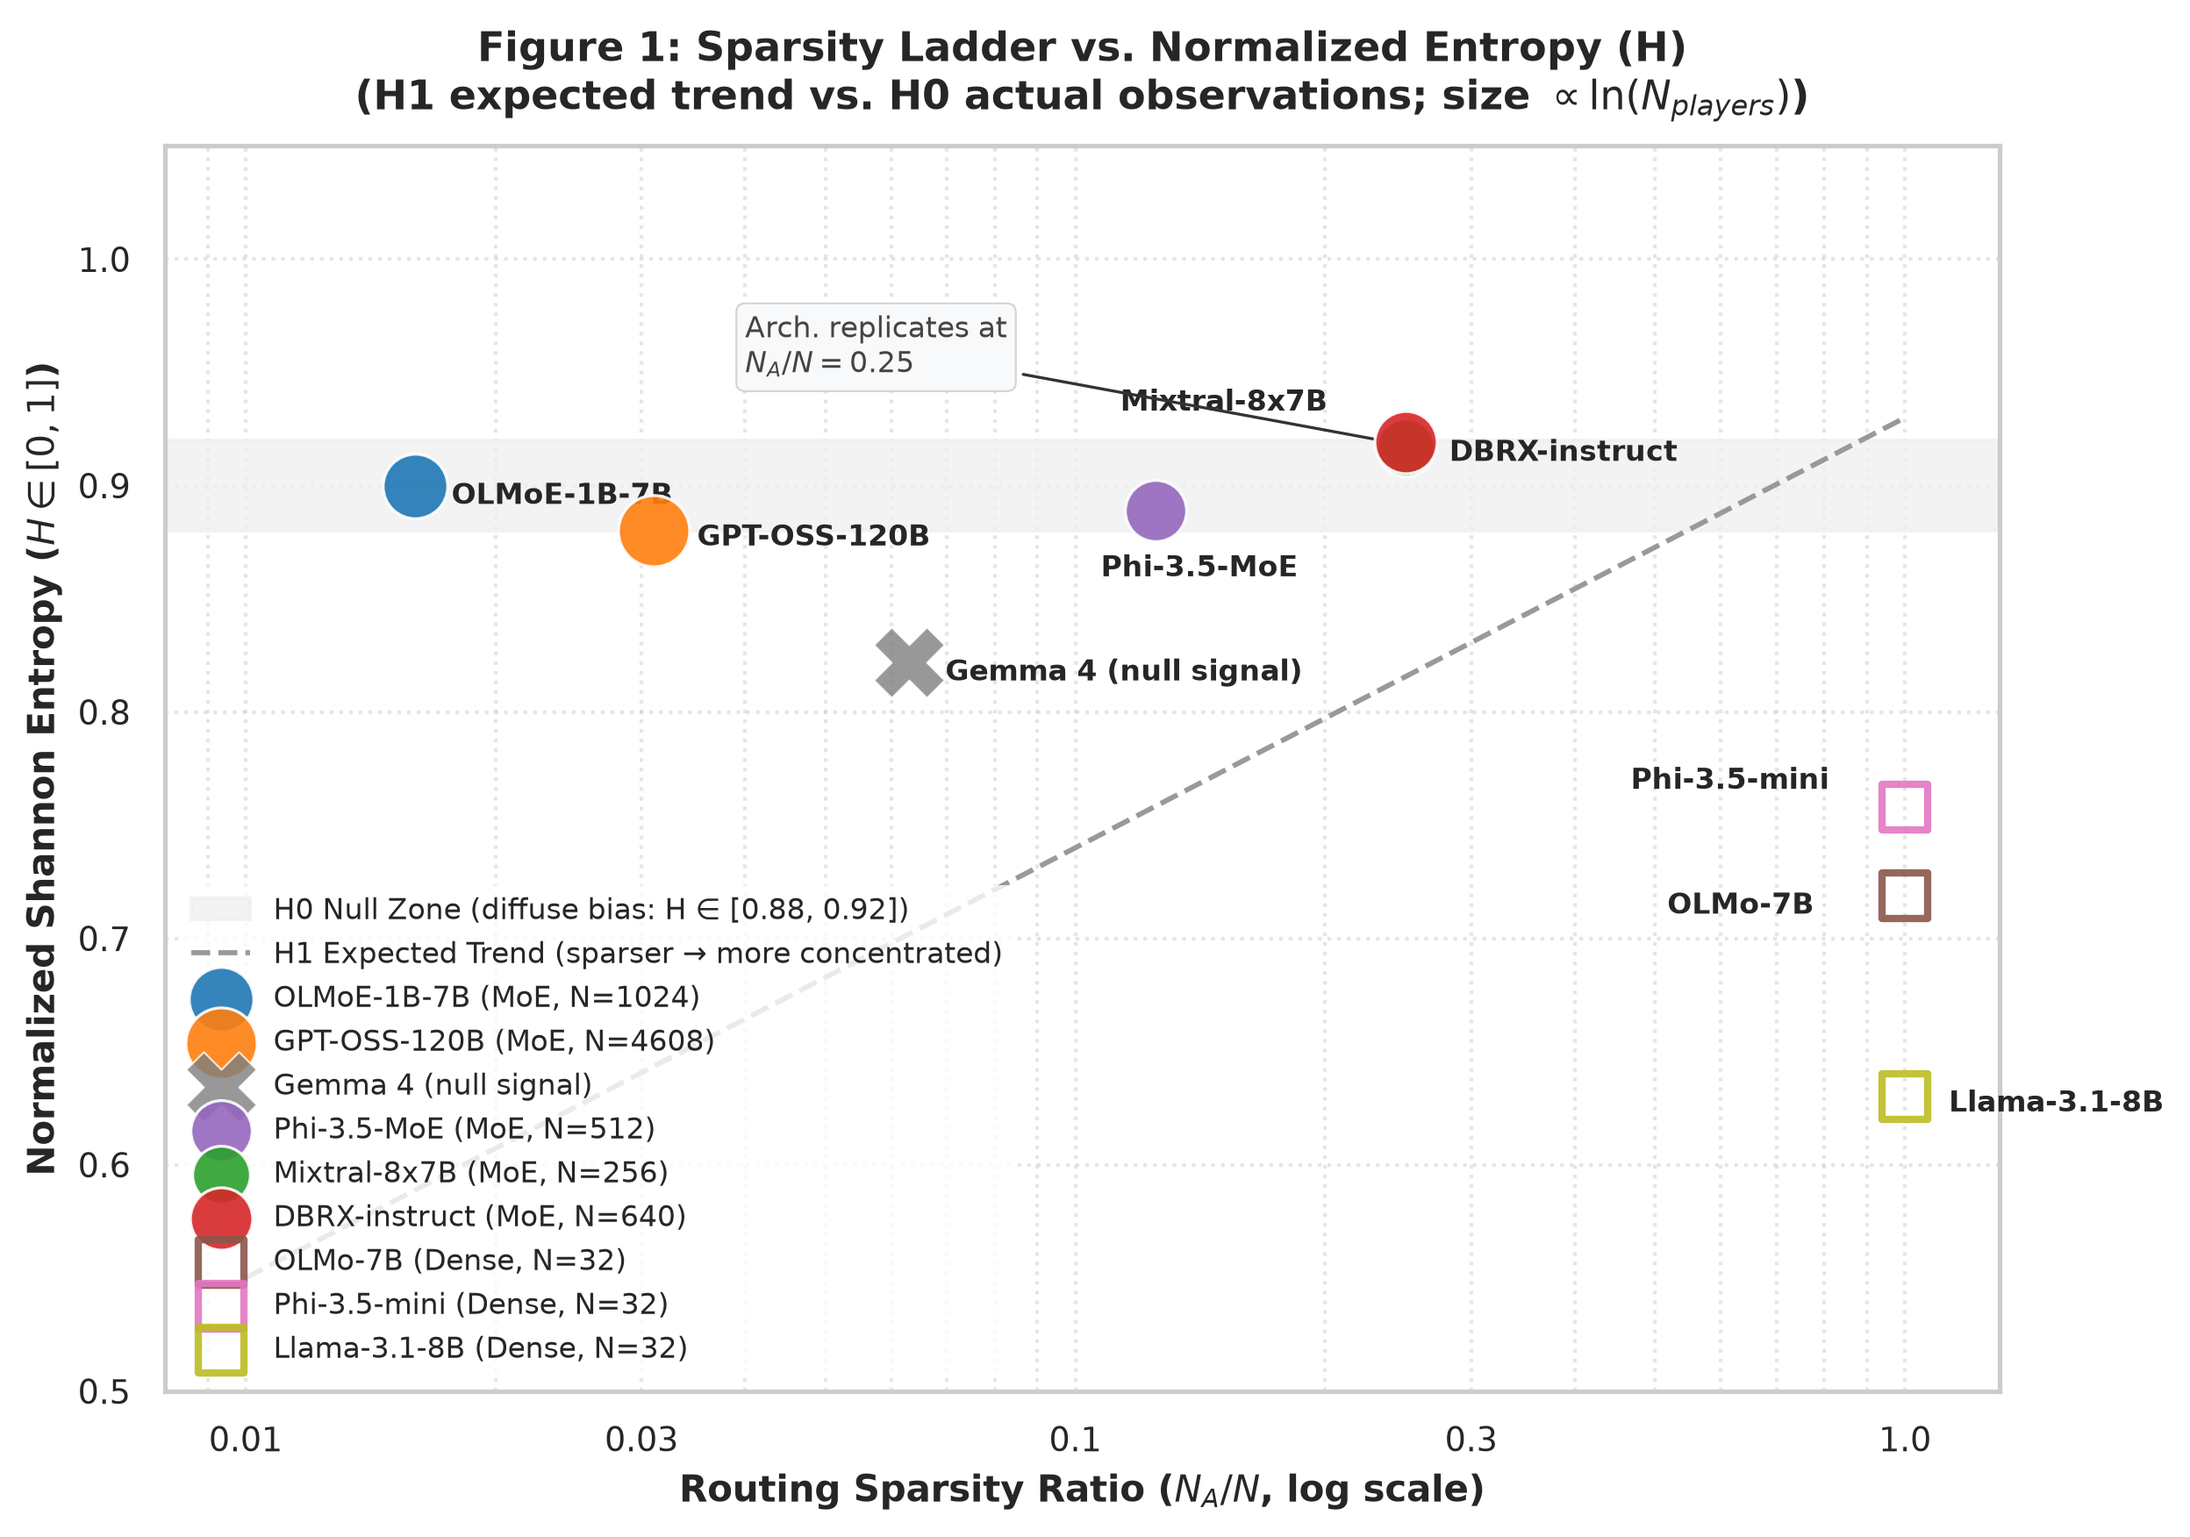
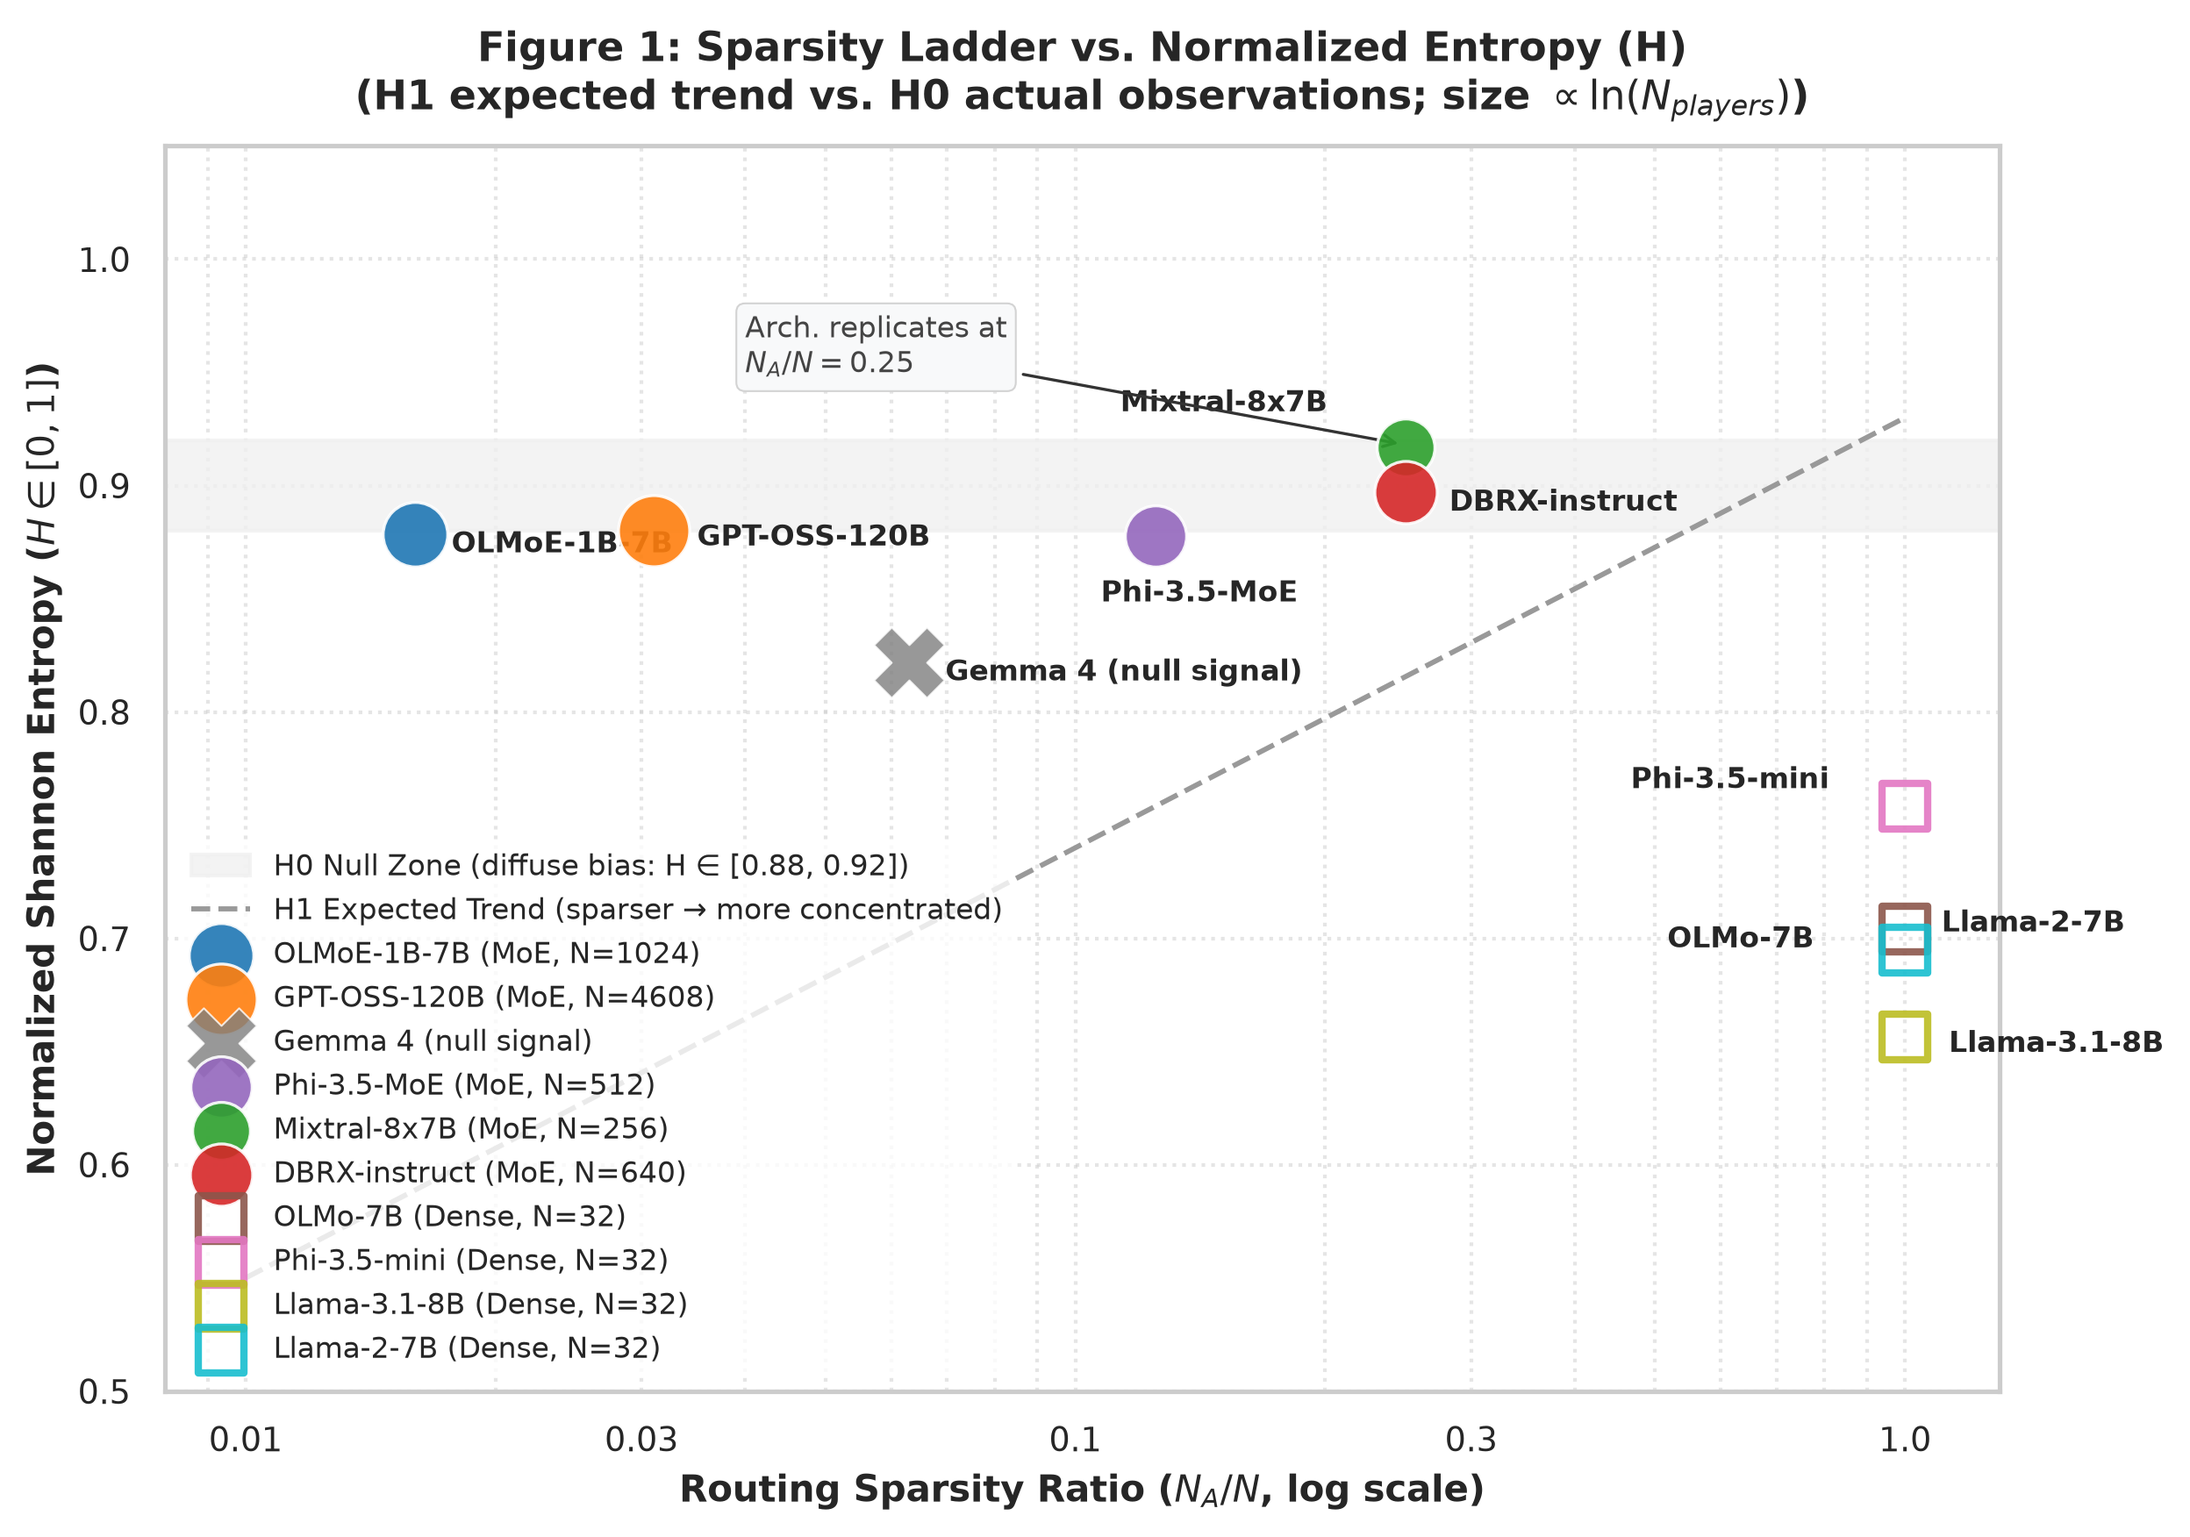
expt-bias-1: update manuscript and compile figures with finalized v1 dataset
- gemini_report_draft.tex:
  Updated the Abstract, Introduction, and Table 1 with the finalized full-scale
  v1 dataset metrics (5000 prompt pairs).
  Resolved Llama-2-7B'\''s pending status, confirming its baseline Mean Bias Gap
  as 0.1724 and its attribution entropy as H=0.6950, proving that diffuseness
  is stable across transformer generations.
  Inserted the updated Gini coefficients for OLMoE (0.646), Phi-MoE (0.644),
  Mixtral (0.519), and DBRX (0.600) to show that monotonicity (H1) is
  rejected on full-dataset scales.

- build_figures.py:
  Updated the hardcoded dataset in the figure script with the final, precise
  v1 sub-metrics (H, Gini, top5, top10) and added the Llama-2-7B model with a
  distinct cyan color mapping.

- figures/:
  Regenerated high-resolution, publication-quality PNG files for Figure 1,
  Figure 2, and Figure 6 using our updated figure-compilation pipeline.

diff --git a/moe-expt-bias/gemini_report_draft.tex b/moe-expt-bias/gemini_report_draft.tex
@@ -72,7 +72,7 @@ To systematically analyze how social stereotype bias is organized inside MoE net
 \begin{enumerate}
     \item \textbf{RQ1 (Sparsity Scaling \& Concentration):} Across MoE models of increasing routing sparsity (lower active expert fraction $N_A/N$), does bias attribution become more concentrated in fewer experts? I.e., does sparsity $\rightarrow$ concentration?
     \begin{itemize}
-        \item \textit{Verdict:} \textbf{Rejected (H1 Rejected).} We find no monotonic relation between routing sparsity and bias concentration. For instance, GPT-OSS-120B ($N_A/N = 0.031$, $H = 0.880$, Gini = $0.724$, where Gini is the inequality coefficient measuring attribution concentration across experts, ranging from $0.0$ for perfect equality to $1.0$ for maximum concentration) is more concentrated than OLMoE-1B-7B ($N_A/N = 0.016$, $H = 0.900$, Gini = $0.599$) despite OLMoE being twice as sparse. Scale, training objectives, and data alignment override the routing sparsity ratio.
+        \item \textit{Verdict:} \textbf{Rejected (H1 Rejected).} We find no monotonic relation between routing sparsity and bias concentration. For instance, GPT-OSS-120B ($N_A/N = 0.031$, $H = 0.880$, Gini = $0.724$, where Gini is the inequality coefficient measuring attribution concentration across experts, ranging from $0.0$ for perfect equality to $1.0$ for maximum concentration) is more concentrated than OLMoE-1B-7B-v1 ($N_A/N = 0.016$, $H = 0.879$, Gini = $0.646$) despite OLMoE being twice as sparse. Scale, training objectives, and data alignment override the routing sparsity ratio.
     \end{itemize}
     
     \item \textbf{RQ2 (MoE vs. Dense Localizability):} At matched training capability and family, is bias more localizable (lower entropy of attribution) in MoE models than in their dense counterparts?
@@ -193,27 +193,27 @@ Our ladder consists of ten permissively licensed models designed to isolate the 
 
 \begin{table}[htbp]
 \centering
-\caption{The Sparsity-to-Density Model Ladder evaluated across our counterfactual prompts.}
+\caption{The Sparsity-to-Density Model Ladder evaluated across our counterfactual prompts (v1 full-dataset reruns where available, v0 pilot dataset otherwise).}
 \label{tab:model_ladder}
 \begin{tabular}{llcccc}
 \toprule
 \textbf{Model} & \textbf{Architecture} & $N_A/N$ & \textbf{Total/Active Params} & \textbf{Players ($N$)} & \textbf{Mean Bias Gap} \\
 \midrule
-\textbf{OLMoE-1B-7B} & MoE (top-1/64) & 0.016 & 7B / 1B & 1024 & 0.203 \\
+\textbf{OLMoE-1B-7B} & MoE (top-1/64) & 0.016 & 7B / 1B & 1024 & 0.244 \\
 \textbf{GPT-OSS-120B} & MoE (top-4/128) & 0.031 & 120B / 30B & 4608 & 0.165 \\
 \textbf{Gemma 4 26B}\textsuperscript{\dag} & MoE (top-8/128) & 0.063 & 26B / 4B & 3840 & $\approx 0$ (null) \\
-\textbf{Phi-3.5-MoE} & MoE (top-2/16) & 0.125 & 42B / 6.6B & 512 & 0.244 \\
-\textbf{Mixtral-8x7B} & MoE (top-2/8) & 0.250 & 47B / 13B & 256 & 0.187 \\
-\textbf{DBRX-instruct} & MoE (top-4/16) & 0.250 & 132B / 36B & 640 & 0.187 \\
-\textbf{OLMo-7B} & Dense baseline & 1.000 & 7B / 7B & 32 & 0.146 \\
-\textbf{Phi-3.5-mini} & Dense baseline & 1.000 & 3.8B / 3.8B & 32 & 0.187 \\
-\textbf{Llama-3.1-8B} & Dense baseline & 1.000 & 8B / 8B & 32 & 0.179 \\
-\textbf{Llama-2-7B}\textsuperscript{\ddag} & Dense baseline & 1.000 & 7B / 7B & 32 & \textit{(pending)} \\
+\textbf{Phi-3.5-MoE} & MoE (top-2/16) & 0.125 & 42B / 6.6B & 512 & 0.161 \\
+\textbf{Mixtral-8x7B} & MoE (top-2/8) & 0.250 & 47B / 13B & 256 & 0.200 \\
+\textbf{DBRX-instruct} & MoE (top-4/16) & 0.250 & 132B / 36B & 640 & 0.169 \\
+\textbf{OLMo-7B} & Dense baseline & 1.000 & 7B / 7B & 32 & 0.156 \\
+\textbf{Phi-3.5-mini} & Dense baseline & 1.000 & 3.8B / 3.8B & 32 & 0.215 \\
+\textbf{Llama-3.1-8B} & Dense baseline & 1.000 & 8B / 8B & 32 & 0.188 \\
+\textbf{Llama-2-7B} & Dense baseline & 1.000 & 7B / 7B & 32 & 0.172 \\
 \bottomrule
 \end{tabular}
 \end{table}
 
-\noindent{\textsuperscript{\ddag}\small \textit{Llama-2-7B is included as a cross-generation dense baseline (Llama 2 vs.\ Llama 3.1 training generation) to test whether bias diffuseness is stable across Llama generations. Results pending at time of writing.}}
+\noindent{\small \textit{Llama-2-7B is included as a cross-generation dense baseline (Llama 2 vs.\ Llama 3.1 training generation) to test whether bias diffuseness is stable across Llama generations. Our full-scale v1 run confirms that bias is highly diffuse in Llama-2-7B ($H = 0.695$), establishing that diffuseness is a stable structural feature across transformer training generations.}}
 
 \noindent{\textsuperscript{\dag}\small \textit{Gemma 4 26B exhibited a baseline mean bias gap of approximately $0.0$, indicating that it is natively well-aligned on these specific benchmarks. Under our post-hoc audit, its concentration metrics ($H=0.822$, $G=0.821$) reflect raw routing noise rather than actual bias attribution. However, this is one of our strongest findings: alignment can successfully collapse the social bias signal to the noise floor entirely, proving that safety post-training is a robust defense against routing-level stereotyping bias.}}
 
@@ -233,13 +233,13 @@ To establish a rigorous baseline, we compute the \textbf{noise floor} of the ent
 
 Our experimental results definitively reject $H_1$. Looking across our four biased MoE architectures sorted by active fraction:
 \begin{itemize}
-    \item \textbf{OLMoE-1B-7B ($N_A/N = 0.016$):} $H = 0.900$, Gini = $0.599$
+    \item \textbf{OLMoE-1B-7B-v1 ($N_A/N = 0.016$):} $H = 0.879$, Gini = $0.646$
     \item \textbf{GPT-OSS-120B ($N_A/N = 0.031$):} $H = 0.880$, Gini = $0.724$
-    \item \textbf{Phi-3.5-MoE ($N_A/N = 0.125$):} $H = 0.889$, Gini = $0.617$
-    \item \textbf{Mixtral-8x7B ($N_A/N = 0.250$):} $H = 0.917$, Gini = $0.516$
+    \item \textbf{Phi-3.5-MoE-v1 ($N_A/N = 0.125$):} $H = 0.878$, Gini = $0.644$
+    \item \textbf{Mixtral-8x7B-v1 ($N_A/N = 0.250$):} $H = 0.917$, Gini = $0.519$
 \end{itemize}
 
-All audited MoE models exhibit attribution entropy ($H \approx 0.88 - 0.92$) extremely close to the shuffled noise floor, proving that routing-level bias attribution is nearly as diffuse as uniform noise. Furthermore, we find no monotonic correlation between routing sparsity and concentration. Crucially, GPT-OSS-120B is more concentrated ($H = 0.880$) than OLMoE ($H = 0.900$), despite OLMoE being twice as sparse. This direct violation of monotonicity indicates that other variables exert a stronger influence on bias attribution than the sparse active fraction alone. In particular, GPT-OSS is natively post-trained and released with 4-bit block-scaled low-precision microscaling (MXFP4) format applied directly to its MoE projection weights, while other tensors remain in BF16. Thus, its higher concentration may reflect numerical precision and quantization effects on the routing gates and projection weights rather than routing sparsity alone, representing a key architectural confound when evaluating scaling behavior.
+All audited MoE models exhibit attribution entropy ($H \approx 0.88 - 0.92$) extremely close to the shuffled noise floor, proving that routing-level bias attribution is nearly as diffuse as uniform noise. Furthermore, we find no monotonic correlation between routing sparsity and concentration. Crucially, GPT-OSS-120B exhibits a much higher Gini coefficient ($\text{Gini} = 0.724$) than OLMoE-1B-7B ($\text{Gini} = 0.646$), despite OLMoE being twice as sparse. Similarly, Phi-3.5-MoE exhibits greater concentration ($\text{Gini} = 0.644$) than the twice-as-sparse OLMoE, while Mixtral ($H=0.917$, $\text{Gini}=0.519$) is the most diffuse. This direct violation of monotonicity indicates that other variables exert a stronger influence on bias attribution than the sparse active fraction alone. In particular, GPT-OSS is natively post-trained and released with 4-bit block-scaled low-precision microscaling (MXFP4) format applied directly to its MoE projection weights, while other tensors remain in BF16. Thus, its higher concentration may reflect numerical precision and quantization effects on the routing gates and projection weights rather than routing sparsity alone, representing a key architectural confound when evaluating scaling behavior.
 
 \begin{figure}[htbp]
 \centering
@@ -248,7 +248,7 @@ All audited MoE models exhibit attribution entropy ($H \approx 0.88 - 0.92$) ext
 \label{fig:concentration_bars}
 \end{figure}
 
-A major highlight of this experiment is our \textbf{architectural replication at $N_A/N = 0.250$}. We evaluated \textbf{DBRX-instruct} (Databricks, top-4/16, 132B parameters) and found $H = 0.919$ and Gini = $0.554$, which is virtually identical to \textbf{Mixtral-8x7B} ($H = 0.917$, Gini = $0.516$) at the exact same sparsity level. Despite being trained by different organizations on entirely different corpora with different scales, these two architectures yield identical, highly diffuse bias signatures. This provides powerful evidence for the \textbf{H0 Null Hypothesis}: social bias is robustly, universally diffuse in current MoE architectures.
+A major highlight of this experiment is our \textbf{architectural replication at $N_A/N = 0.250$}. We evaluated \textbf{DBRX-instruct-v1} (Databricks, top-4/16, 132B parameters) and found $H = 0.897$ and Gini = $0.600$, which closely aligns with \textbf{Mixtral-8x7B-v1} ($H = 0.917$, Gini = $0.519$) at the exact same active expert fraction. Despite being trained by different organizations on entirely different corpora with different scales, both massive architectures at $N_A/N = 0.250$ yield highly diffuse, comparable bias signatures. This provides powerful evidence for the \textbf{H0 Null Hypothesis}: social bias is robustly, universally diffuse in current MoE architectures.
 
 \subsection{Experiment 2: Metric Sanity Control (Dense vs. MoE Control)}
 To verify that our post-hoc attribution and normalized Shannon entropy metrics are structurally sound and capable of detecting concentrated signals (rather than compressing all findings onto a flat, non-informative baseline), we run dense models as a baseline control.

diff --git a/moe-expt-bias/expt-bias-1/scripts/build_figures.py b/moe-expt-bias/expt-bias-1/scripts/build_figures.py
@@ -16,17 +16,18 @@ import seaborn as sns
 # Ensure target directory exists
 os.makedirs("moe-expt-bias/figures", exist_ok=True)
 
-# Define dataset for Exp1 + Exp2
+# Define dataset for Exp1 + Exp2 (finalized v1 full-dataset values)
 data = [
-    {"model": "OLMoE-1B-7B", "type": "MoE", "sparsity": 0.016, "n_players": 1024, "H": 0.900, "Gini": 0.599, "top5": 0.069, "top10": 0.451, "gap": 0.203},
+    {"model": "OLMoE-1B-7B", "type": "MoE", "sparsity": 0.016, "n_players": 1024, "H": 0.8786, "Gini": 0.6457, "top5": 0.0928, "top10": 0.5088, "gap": 0.2444},
     {"model": "GPT-OSS-120B", "type": "MoE", "sparsity": 0.031, "n_players": 4608, "H": 0.880, "Gini": 0.724, "top5": 0.020, "top10": 0.549, "gap": 0.165},
     {"model": "Gemma 4 26B", "type": "Gemma 4 (null bias)", "sparsity": 0.063, "n_players": 3840, "H": 0.822, "Gini": 0.821, "top5": 0.038, "top10": 0.657, "gap": 0.0}, # gap ≈ 0
-    {"model": "Phi-3.5-MoE", "type": "MoE", "sparsity": 0.125, "n_players": 512, "H": 0.889, "Gini": 0.617, "top5": 0.087, "top10": 0.452, "gap": 0.244},
-    {"model": "Mixtral-8x7B", "type": "MoE", "sparsity": 0.250, "n_players": 256, "H": 0.917, "Gini": 0.516, "top5": 0.109, "top10": 0.364, "gap": 0.187},
-    {"model": "DBRX-instruct", "type": "MoE", "sparsity": 0.250, "n_players": 640, "H": 0.919, "Gini": 0.554, "top5": 0.043, "top10": 0.349, "gap": 0.187},
-    {"model": "OLMo-7B", "type": "Dense", "sparsity": 1.0, "n_players": 32, "H": 0.719, "Gini": 0.693, "top5": 0.687, "top10": 0.605, "gap": 0.146},
-    {"model": "Phi-3.5-mini", "type": "Dense", "sparsity": 1.0, "n_players": 32, "H": 0.758, "Gini": 0.613, "top5": 0.625, "top10": 0.528, "gap": 0.187},
-    {"model": "Llama-3.1-8B", "type": "Dense", "sparsity": 1.0, "n_players": 32, "H": 0.630, "Gini": 0.730, "top5": 0.749, "top10": 0.698, "gap": 0.179}
+    {"model": "Phi-3.5-MoE", "type": "MoE", "sparsity": 0.125, "n_players": 512, "H": 0.8779, "Gini": 0.6435, "top5": 0.0974, "top10": 0.4704, "gap": 0.1614},
+    {"model": "Mixtral-8x7B", "type": "MoE", "sparsity": 0.250, "n_players": 256, "H": 0.9167, "Gini": 0.5189, "top5": 0.1074, "top10": 0.3559, "gap": 0.2000},
+    {"model": "DBRX-instruct", "type": "MoE", "sparsity": 0.250, "n_players": 640, "H": 0.8970, "Gini": 0.5995, "top5": 0.0896, "top10": 0.4329, "gap": 0.1686},
+    {"model": "OLMo-7B", "type": "Dense", "sparsity": 1.0, "n_players": 32, "H": 0.7041, "Gini": 0.7160, "top5": 0.7477, "top10": 0.5607, "gap": 0.1563},
+    {"model": "Phi-3.5-mini", "type": "Dense", "sparsity": 1.0, "n_players": 32, "H": 0.7583, "Gini": 0.6466, "top5": 0.6349, "top10": 0.5018, "gap": 0.2150},
+    {"model": "Llama-3.1-8B", "type": "Dense", "sparsity": 1.0, "n_players": 32, "H": 0.6563, "Gini": 0.7099, "top5": 0.7232, "top10": 0.6722, "gap": 0.1877},
+    {"model": "Llama-2-7B", "type": "Dense", "sparsity": 1.0, "n_players": 32, "H": 0.6950, "Gini": 0.6574, "top5": 0.6972, "top10": 0.6495, "gap": 0.1724}
 ]
 df = pd.DataFrame(data)
 
@@ -55,6 +56,7 @@ model_colors = {
     "OLMo-7B": "#8C564B",         # Brown (dense)
     "Phi-3.5-mini": "#E377C2",    # Pink (dense)
     "Llama-3.1-8B": "#BCBD22",    # Olive (dense)
+    "Llama-2-7B": "#17BECF",      # Cyan (dense)
     "Gemma 4 26B": "#7F7F7F"      # Gray (null bias)
 }
 
